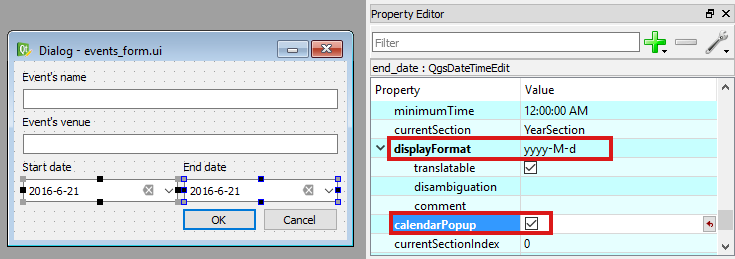
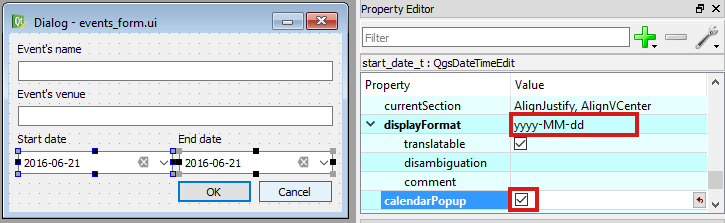
Updates Qt designer Wuick start

diff --git a/docs/source/components/qtdesigner.rst b/docs/source/components/qtdesigner.rst
@@ -17,13 +17,13 @@ Quick start guide
 
 The following quick start guide will introduce you to Qt Designer basics. It will show how to create a simple custom feature form for a vector layer in QGIS. 
 
-0. Download the data for this tutorial here and unzip it anywhere you think it's convenient.
+0. Download the data for this tutorial :download:`here <data/events_data_sample.zip>` and unzip it anywhere you think it's convenient.
 
 1. Open `Qt Designer` using any of the available shortcuts in your computer.
 
 By default, Qt Designer will show the `New Form` dialog on opening.
 
-2. Choose ``Dialog with Buttons Bottom`` from the :guilabel:`template\forms` list and press :guilabel:`Create`.
+2. Choose ``Dialog with Buttons Bottom`` from the :guilabel:`template\\forms` list and press :guilabel:`Create`.
 
    .. figure:: img/qt_designer_new_form.png
 
@@ -49,7 +49,7 @@ To see what widgets we want to use on the new form, we will need to inspect the 
    
    .. figure:: img/qt_designer_layer_attributes.png
    
-7. Let's now have a look at the layer's current feature form. Go back to QGIS main window, select the `events` layer and, in the `digitising toolbar` (if not visible check :menuselection:`View --> Toolbars --> Digitizing toolbar`) click :guilabel:`Toggle editing`. Next to it, select the :guilabel:`Add Feature` tool and click anywhere in the map canvas to add a new point to your layer. This step should insert a point in the map canvas and show the automatically created layer's feature form. Take some time analysing the feature form and then press :guilabel:`Cancel` to discard any changes.
+7. Let's now have a look at the layer's current feature form. Go back to QGIS main window, select the `events` layer and click :guilabel:`Toggle editing` in the `digitising toolbar` (if not visible check :menuselection:`View --> Toolbars --> Digitizing toolbar`). In the same toolbar, select the :guilabel:`Add Feature` tool and click anywhere in the map canvas to add a new point to your layer. This step should insert a point in the map canvas and show the default layer's feature form. Take some time analysing the feature form and then press :guilabel:`Cancel` to discard any changes.
 
    .. figure:: img/qt_designer_layer_add_point.png
 
@@ -103,11 +103,17 @@ Now, let's go back to QGIS and test the feature form in action.
 
     .. figure:: img/qt_designer_new_feature_form_in_action.png
 
-18. To finish our feature form, let's make a small tweak in the date fields. Back in `Qt Designer`, select the two :guilabel:`QgsDateTimeEdit` widgets (Hold the :kbd:`Ctrl` key while clicking) and, in the :guilabel:`Properties Editor` set the :guilabel:`Display format` value to ``yyyy-M-dd`` and check the :guilabel:`calendarPopup` property. The changes will be applied on both widgets.
+To finish our feature form, let's make a small fix in the date fields otherwise the values won't be saved in the table because of the use of different date formats in Qt form and QGIS.
+
+18. Back in `Qt Designer`, select the two :guilabel:`QgsDateTimeEdit` widgets (Hold the :kbd:`Ctrl` key while clicking) and, in the :guilabel:`Properties Editor` set the :guilabel:`Display format` value to ``yyyy-M-dd`` and check the :guilabel:`calendarPopup` property. The changes will be applied on both widgets. Save the form again.
 
     .. figure:: img/qt_designer_date_fields_tweak.png
 
-19. Save the form, and back in QGIS repeat step #17 to see the changes take effect. The date values should be represented differently, and a new icon will alow to choose the date from a popup calendar.
+19. Back in QGIS, go to the fields tab in the Properties menu and for each date field change the widget to date/time, make sure to use the same date format value in the :guilabel:`Widget display` that the one used in the form (``yyyy-MM-dd``). Also select the :guilabel:`calendar popup` and :guilabel:`allow NULL` options. Press :guilabel:`Ok` when you have finished.
+
+    .. figure:: img/qt_designer_date_fields_qgis_tweak.png
+
+20. Now, repeat step #17 to see the feature form changes take effect. The date values should be represented differently, and a new icon will alow to choose the date from a popup calendar. Besides, saving the input to the table will work just fine.
 
     .. figure:: img/qt_designer_form_with_calendar_popup.png
 
